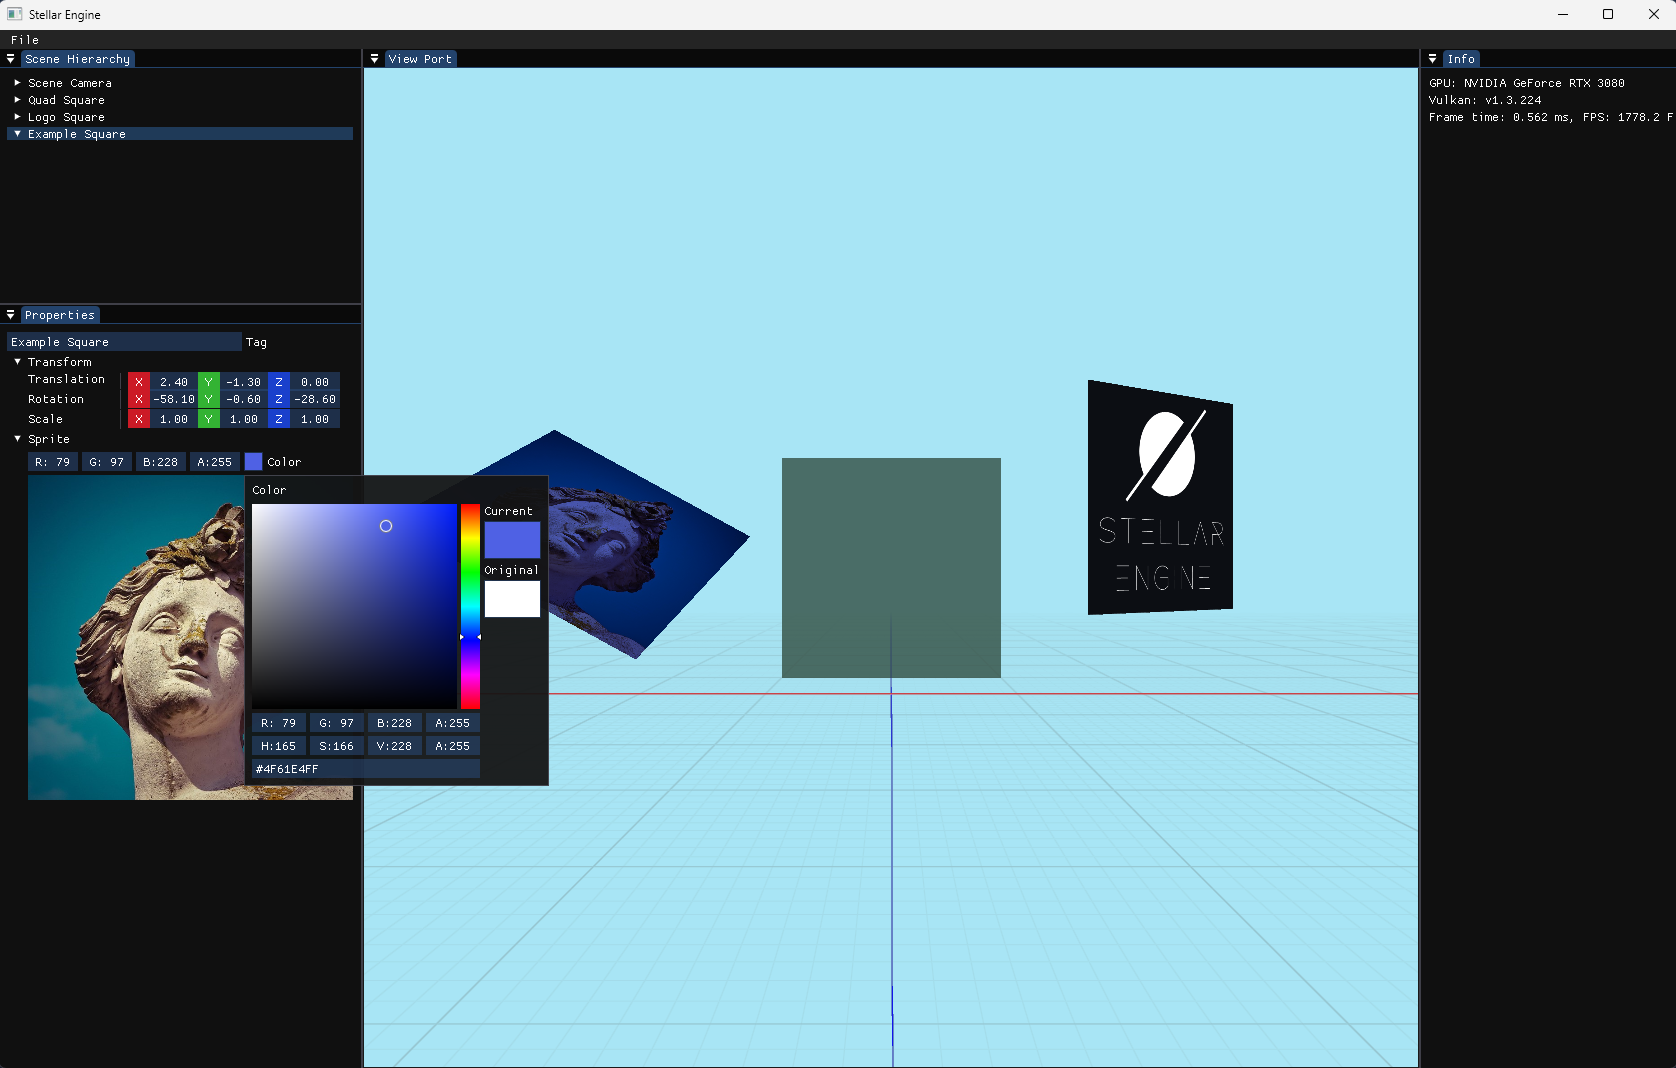
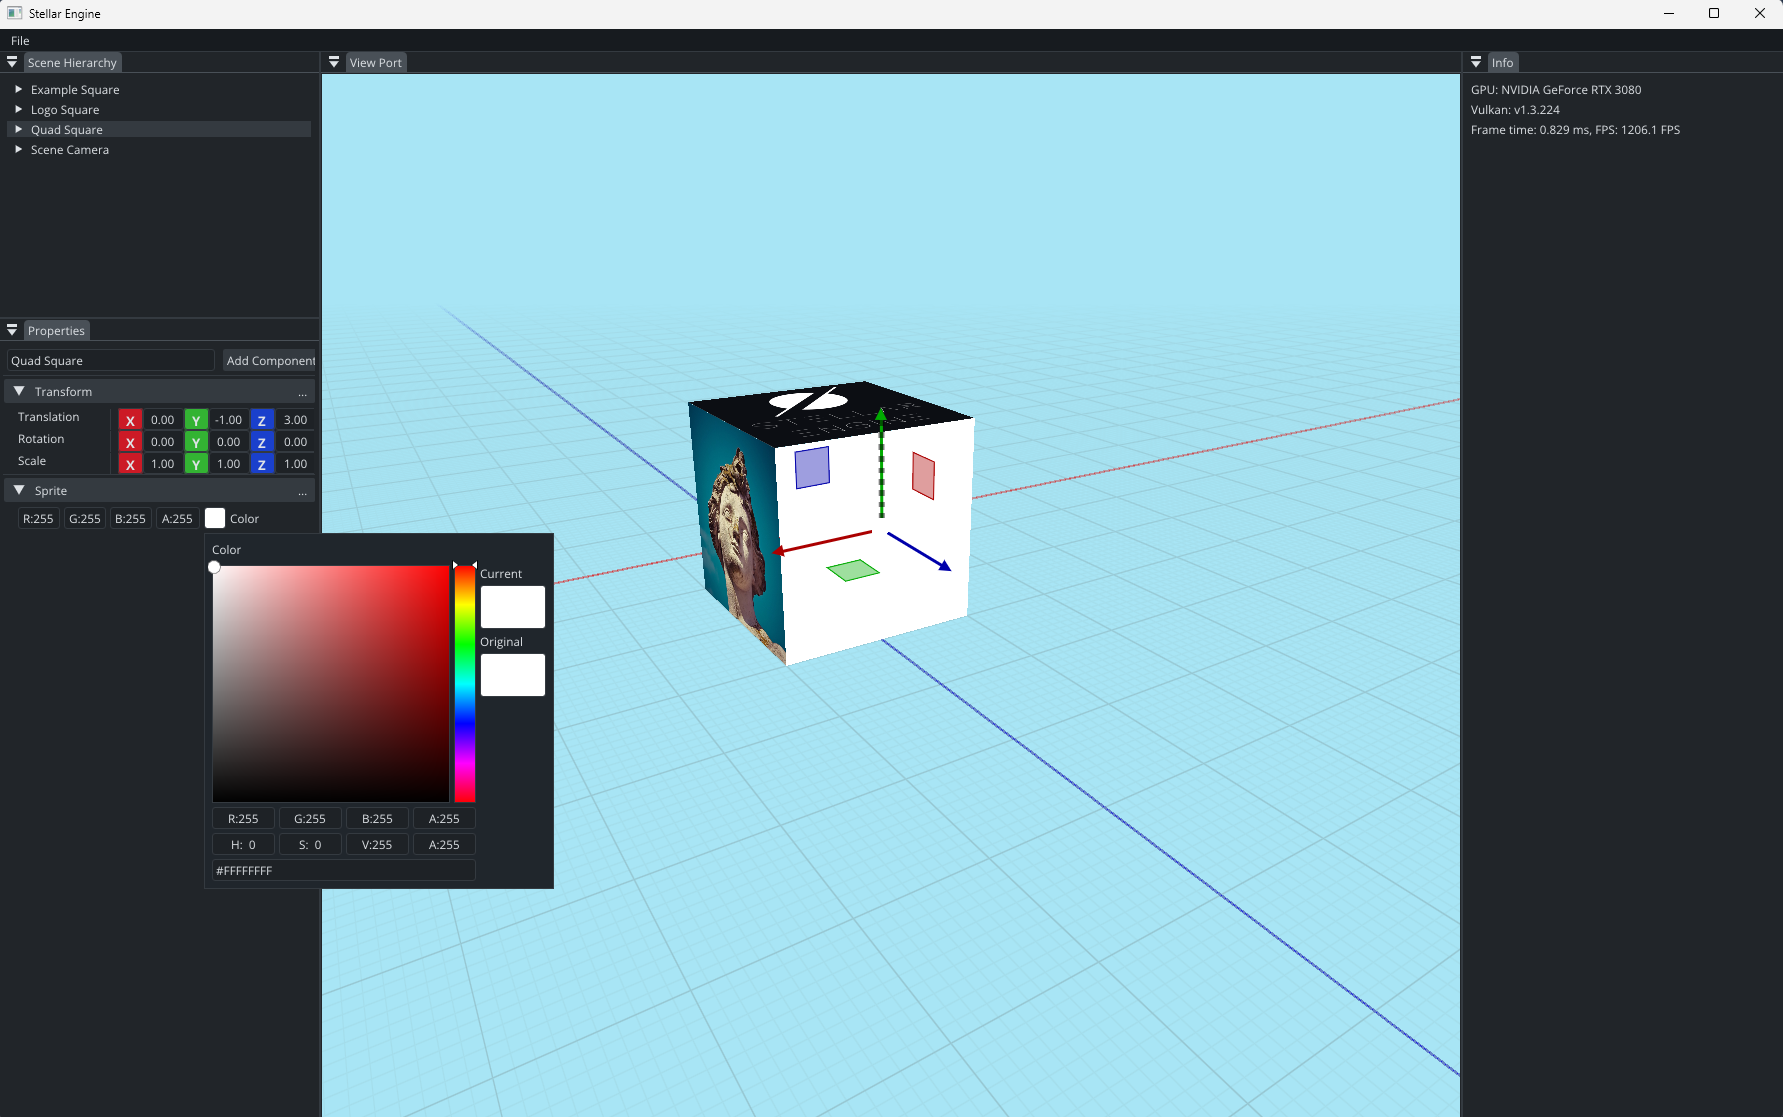
new theme

diff --git a/Stellar/src/Stellar/ImGui/Colors.h b/Stellar/src/Stellar/ImGui/Colors.h
@@ -11,26 +11,33 @@ namespace Colors {
 	// members of a static "Theme" class and add a quick ImGui window to adjust the colour values
 	namespace Theme
 	{
-		constexpr auto accent					= IM_COL32(236, 158, 36, 255);
-		constexpr auto highlight				= IM_COL32(39, 185, 242, 255);
-		constexpr auto niceBlue					= IM_COL32(83, 232, 254, 255);
-		constexpr auto compliment				= IM_COL32(78, 151, 166, 255);
-		constexpr auto background				= IM_COL32(36, 36, 36, 255);
-		constexpr auto backgroundDark			= IM_COL32(26, 26, 26, 255);
-		constexpr auto titlebar					= IM_COL32(21, 21, 21, 255);
-		constexpr auto propertyField			= IM_COL32(15, 15, 15, 255);
-		constexpr auto text						= IM_COL32(192, 192, 192, 255);
+		constexpr auto menuBar					= IM_COL32(23,  27,  31,  255);
+
+		constexpr auto accent					= IM_COL32(236, 158, 36,  255);
+		constexpr auto highlight				= IM_COL32(206, 212, 218, 255);
+		constexpr auto niceBlue					= IM_COL32(83,  232, 254, 255);
+		constexpr auto compliment				= IM_COL32(78,  151, 166, 255);
+		constexpr auto background				= IM_COL32(33,  37,  41,  255);
+		constexpr auto backgroundDark			= IM_COL32(52,  58,  64,  255);
+		constexpr auto titlebar					= IM_COL32(33,  37,  41,  255);
+		constexpr auto propertyField			= IM_COL32(30,  34,  38,  255);
+		constexpr auto text						= IM_COL32(222, 226, 230, 255);
 		constexpr auto textBrighter				= IM_COL32(210, 210, 210, 255);
 		constexpr auto textDarker				= IM_COL32(128, 128, 128, 255);
-		constexpr auto muted					= IM_COL32(77, 77, 77, 255);
-		constexpr auto groupHeader				= IM_COL32(47, 47, 47, 255);
+		constexpr auto muted					= IM_COL32(77,  77,  77,  255);
+		constexpr auto groupHeader				= IM_COL32(52,  58,  64,  255);
+		constexpr auto tabActive				= IM_COL32(73, 80, 87, 255);
+		constexpr auto tabHovered				= IM_COL32(83, 90, 97, 255);
 		//constexpr auto selection				= IM_COL32(191, 177, 155, 255);
 		//constexpr auto selectionMuted			= IM_COL32(59, 57, 45, 255);
-		constexpr auto selection				= IM_COL32(237, 192, 119, 255);
+		constexpr auto selection				= IM_COL32(108, 117, 125, 255);
 		constexpr auto selectionMuted			= IM_COL32(237, 201, 142, 23);
 
-		//constexpr auto backgroundPopup			= IM_COL32(63, 73, 77, 255); // in between
-		//constexpr auto backgroundPopup			= IM_COL32(63, 77, 76, 255); // most green
-		constexpr auto backgroundPopup			= IM_COL32(50, 50, 50, 255); // most blue
+		constexpr auto button					= IM_COL32(52,  58,  64,  255);
+		constexpr auto buttonHovered			= IM_COL32(72,  78,  84,  255);
+
+		constexpr auto separaterHovered			= IM_COL32(108, 117, 125, 255);
+
+		constexpr auto backgroundPopup			= IM_COL32(32,  38,  44,  255); // most blue
 	}
 }

diff --git a/Stellar/src/Stellar/ImGui/ImGuiLayer.cpp b/Stellar/src/Stellar/ImGui/ImGuiLayer.cpp
@@ -48,8 +48,8 @@ namespace Stellar {
 		colors[ImGuiCol_HeaderActive]		= ImGui::ColorConvertU32ToFloat4(Colors::Theme::groupHeader);
 
 		// Buttons
-		colors[ImGuiCol_Button]				= ImColor(56, 56, 56, 200);
-		colors[ImGuiCol_ButtonHovered]		= ImColor(70, 70, 70, 255);
+		colors[ImGuiCol_Button]				= ImGui::ColorConvertU32ToFloat4(Colors::Theme::button);
+		colors[ImGuiCol_ButtonHovered]		= ImGui::ColorConvertU32ToFloat4(Colors::Theme::buttonHovered);
 		colors[ImGuiCol_ButtonActive]		= ImColor(56, 56, 56, 150);
 
 		// Frame BG
@@ -59,10 +59,10 @@ namespace Stellar {
 
 		// Tabs
 		colors[ImGuiCol_Tab]				= ImGui::ColorConvertU32ToFloat4(Colors::Theme::titlebar);
-		colors[ImGuiCol_TabHovered]			= ImColor(255, 225, 135, 30);
-		colors[ImGuiCol_TabActive]			= ImColor(255, 225, 135, 60);
+		colors[ImGuiCol_TabHovered]			= ImGui::ColorConvertU32ToFloat4(Colors::Theme::tabHovered);
+		colors[ImGuiCol_TabActive]			= ImGui::ColorConvertU32ToFloat4(Colors::Theme::tabActive);
 		colors[ImGuiCol_TabUnfocused]		= ImGui::ColorConvertU32ToFloat4(Colors::Theme::titlebar);
-		colors[ImGuiCol_TabUnfocusedActive] = colors[ImGuiCol_TabHovered];
+		colors[ImGuiCol_TabUnfocusedActive] = colors[ImGuiCol_TabActive];
 
 		// Title
 		colors[ImGuiCol_TitleBg]			= ImGui::ColorConvertU32ToFloat4(Colors::Theme::titlebar);
@@ -96,7 +96,7 @@ namespace Stellar {
 		// Separator
 		colors[ImGuiCol_Separator]			= ImGui::ColorConvertU32ToFloat4(Colors::Theme::backgroundDark);
 		colors[ImGuiCol_SeparatorActive]	= ImGui::ColorConvertU32ToFloat4(Colors::Theme::highlight);
-		colors[ImGuiCol_SeparatorHovered]	= ImColor(39, 185, 242, 150);
+		colors[ImGuiCol_SeparatorHovered]	= ImGui::ColorConvertU32ToFloat4(Colors::Theme::separaterHovered);
 
 		// Window Background
 		colors[ImGuiCol_WindowBg]			= ImGui::ColorConvertU32ToFloat4(Colors::Theme::titlebar);
@@ -109,7 +109,7 @@ namespace Stellar {
 		colors[ImGuiCol_TableBorderLight]	= ImGui::ColorConvertU32ToFloat4(Colors::Theme::backgroundDark);
 
 		// Menubar
-		colors[ImGuiCol_MenuBarBg]			= ImVec4{ 0.0f, 0.0f, 0.0f, 0.0f };
+		colors[ImGuiCol_MenuBarBg]			= ImGui::ColorConvertU32ToFloat4(Colors::Theme::menuBar);
 
 		//========================================================
 		/// Style

diff --git a/StellarEditor/src/EditorLayer.cpp b/StellarEditor/src/EditorLayer.cpp
@@ -89,13 +89,9 @@ namespace Stellar {
 		ImGui::PushStyleVar(ImGuiStyleVar_WindowBorderSize, 0.0f);
 		ImGui::PushStyleVar(ImGuiStyleVar_WindowPadding, ImVec2(0.0f, 0.0f));
 		ImGui::PushStyleVar(ImGuiStyleVar_ChildBorderSize, 0.0f);
-		ImGui::PushStyleColor(ImGuiCol_WindowBg, ImVec4(255,255,255,0));
-		ImGui::PushStyleColor(ImGuiCol_ChildBg, ImVec4(255,255,255,0));
-		ImGui::PushStyleColor(ImGuiCol_FrameBg, ImVec4(255,255,255,0));
 
 		ImGui::Begin("DockSpace Window", nullptr, host_window_flags);
 		ImGui::PopStyleVar(4);
-		ImGui::PopStyleColor(3);
 
 		menuBar();
 

diff --git a/Stellar/src/Stellar/Platform/Vulkan/ImGui/VulkanImGuiLayer.cpp b/Stellar/src/Stellar/Platform/Vulkan/ImGui/VulkanImGuiLayer.cpp
@@ -37,7 +37,7 @@ namespace Stellar {
 
 		io.Fonts->AddFontFromFileTTF("Resources/Fonts/OpenSans/static/OpenSans/OpenSans-Bold.ttf", 18.0f);
 
-		io.FontDefault = io.Fonts->AddFontFromFileTTF("Resources/Fonts/OpenSans/OpenSans-VariableFont_wdth,wght.ttf", 15.0f);
+		io.FontDefault = io.Fonts->AddFontFromFileTTF("Resources/Fonts/OpenSans/OpenSans-VariableFont_wdth,wght.ttf", 16.0f);
 
 		auto swapChain = (VulkanSwapChain*)Application::Get().getWindow().getSwapChain();
 		VkDescriptorPoolSize pool_sizes[] = {

diff --git a/StellarEditor/src/Panels/SceneHierarchyPanel.cpp b/StellarEditor/src/Panels/SceneHierarchyPanel.cpp
@@ -110,7 +110,7 @@ namespace Stellar {
 		ImGui::SameLine();
 
 		ImGui::PushStyleColor(ImGuiCol_Button, ImVec4{0.2f, 0.7f, 0.2f, 1.0f});
-		ImGui::PushStyleColor(ImGuiCol_ButtonHovered, ImVec4{0.3f, 0.2f, 0.2f, 1.0f});
+		ImGui::PushStyleColor(ImGuiCol_ButtonHovered, ImVec4{0.3f, 0.8f, 0.3f, 1.0f});
 		ImGui::PushStyleColor(ImGuiCol_ButtonActive, ImVec4{0.2f, 0.7f, 0.3f, 1.0f});
 		ImGui::PushFont(boldFont);
 		if (ImGui::Button("Y", buttonSize))
